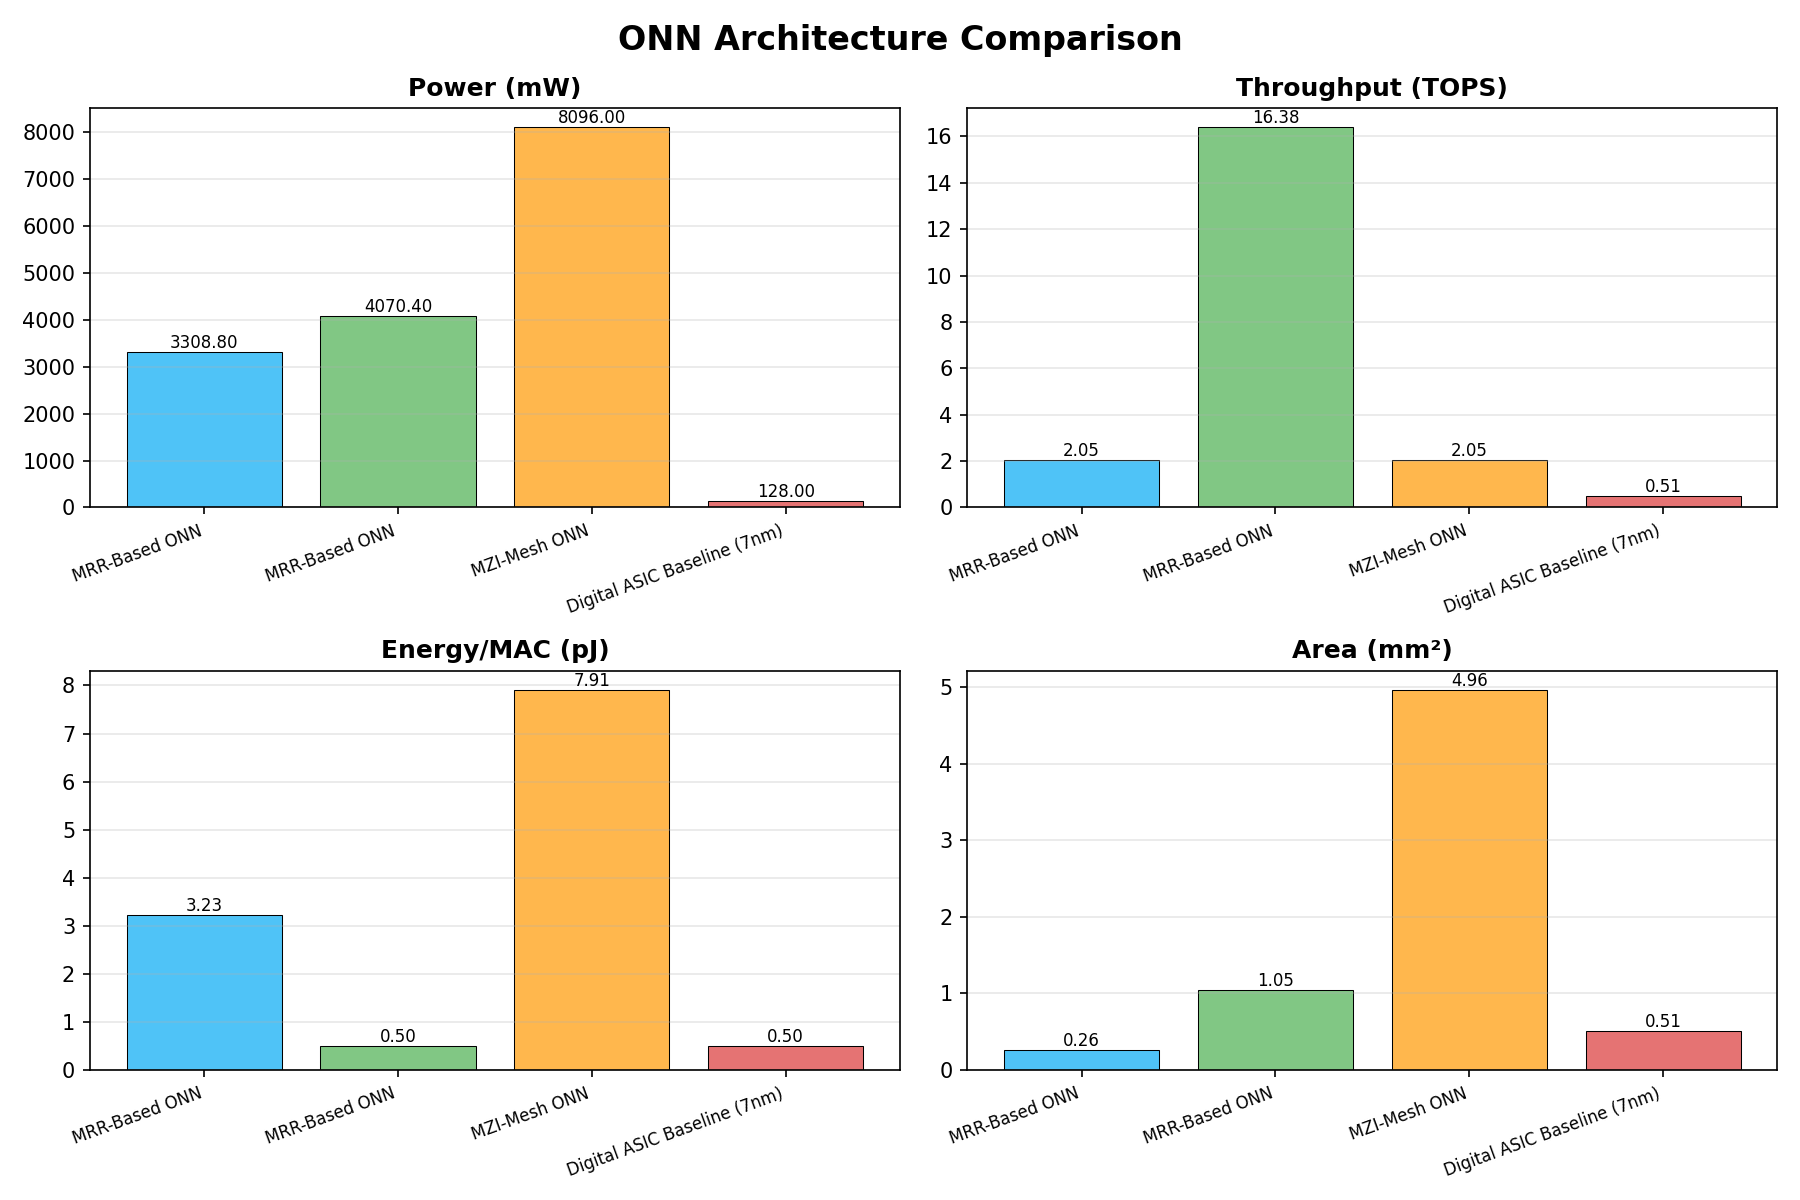
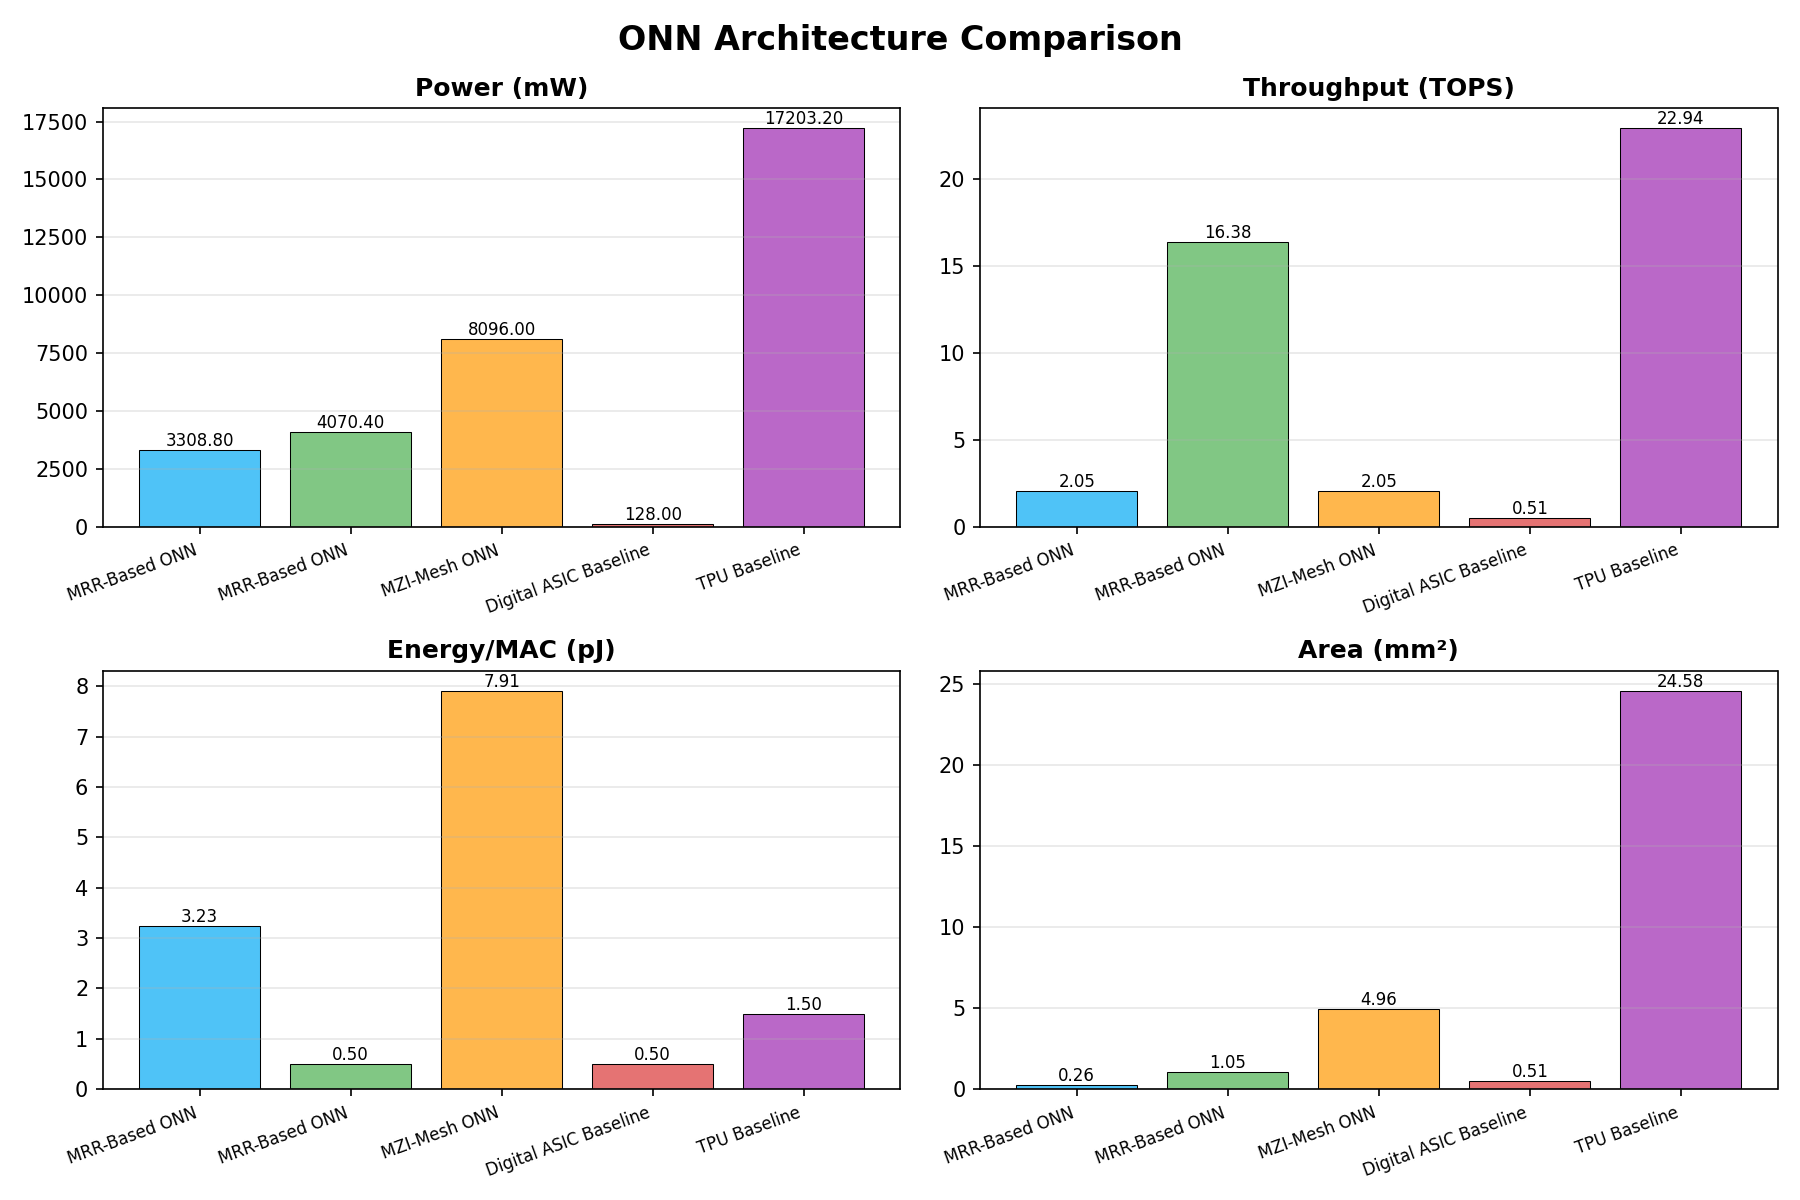
IDK WTF GOIN ON ANTIGRAVITY COOKING

diff --git a/experiments/run_inference.py b/experiments/run_inference.py
@@ -25,10 +25,11 @@ def main():
     # ---- define workloads ------------------------------------------------------
     mlp = SimpleMLP.get_mnist_mlp()
     cnn = SimpleCNN.get_simple_cnn()
+    medmnist_cnn = SimpleCNN.get_medmnist_cnn(in_channels=3, num_classes=10)
 
     # ---- run inference ---------------------------------------------------------
     print("=" * 80)
-    print("END-TO-END NEURAL NETWORK INFERENCE SIMULATION")
+    print("END-TO-END NEURAL NETWORK INFERENCE SIMULATION (incl. MedMNIST)")
     print("=" * 80)
 
     results = []
@@ -38,20 +39,24 @@ def main():
 
         mlp_result = engine.run_mlp(mlp)
         cnn_result = engine.run_cnn(cnn)
-        results.append((name, mlp_result, cnn_result))
+        medmnist_result = engine.run_cnn(medmnist_cnn)
+        results.append((name, mlp_result, cnn_result, medmnist_result))
 
         print(f"\n{'-' * 80}")
+        print(f"Architecture: {name}")
         print(mlp_result)
         print()
         print(cnn_result)
+        print()
+        print(medmnist_result)
 
     # ---- plots ---------------------------------------------------------------
     fig, axes = plt.subplots(2, 2, figsize=(14, 10))
     fig.suptitle("End-to-End Neural Network Inference Analysis", fontsize=15, fontweight="bold")
 
     # Unpack results
-    mrr_name, mrr_mlp, mrr_cnn = results[0]
-    mzi_name, mzi_mlp, mzi_cnn = results[1]
+    mrr_name, mrr_mlp, mrr_cnn, mrr_medmnist = results[0]
+    mzi_name, mzi_mlp, mzi_cnn, mzi_medmnist = results[1]
 
     # --- Plot 1: MLP per-layer energy breakdown (stacked bar) ---
     ax = axes[0, 0]
@@ -99,11 +104,11 @@ def main():
 
     # --- Plot 4: Total comparison ---
     ax = axes[1, 1]
-    categories = ["MLP\nEnergy (nJ)", "MLP\nLatency (us)", "CNN\nEnergy (nJ)", "CNN\nLatency (us)"]
-    mrr_vals = [mrr_mlp.total_energy_nj, mrr_mlp.total_latency_us,
-                mrr_cnn.total_energy_nj, mrr_cnn.total_latency_us]
-    mzi_vals = [mzi_mlp.total_energy_nj, mzi_mlp.total_latency_us,
-                mzi_cnn.total_energy_nj, mzi_cnn.total_latency_us]
+    categories = ["MLP\nEnergy", "CNN\nEnergy", "MedMNIST\nEnergy", "MedMNIST\nLatency (us)"]
+    mrr_vals = [mrr_mlp.total_energy_nj, mrr_cnn.total_energy_nj,
+                mrr_medmnist.total_energy_nj, mrr_medmnist.total_latency_us]
+    mzi_vals = [mzi_mlp.total_energy_nj, mzi_cnn.total_energy_nj,
+                mzi_medmnist.total_energy_nj, mzi_medmnist.total_latency_us]
     x3 = np.arange(len(categories))
     ax.bar(x3 - w / 2, mrr_vals, w, label="MRR", color="#4FC3F7", edgecolor="black", linewidth=0.5)
     ax.bar(x3 + w / 2, mzi_vals, w, label="MZI", color="#FFB74D", edgecolor="black", linewidth=0.5)

diff --git a/workloads/networks.py b/workloads/networks.py
@@ -41,6 +41,20 @@ class SimpleCNN:
             ]
         )
 
+    @classmethod
+    def get_medmnist_cnn(cls, in_channels: int = 3, num_classes: int = 10) -> "SimpleCNN":
+        """A slightly larger CNN for 28x28x3 MedMNIST datasets."""
+        return cls(
+            conv_layers=[
+                Conv2DLayer(in_channels=in_channels, out_channels=32, kernel_size=3, input_spatial_size=28),
+                Conv2DLayer(in_channels=32, out_channels=64, kernel_size=3, input_spatial_size=14),
+            ],
+            linear_layers=[
+                LinearLayer(in_features=64 * 5 * 5, out_features=128),
+                LinearLayer(in_features=128, out_features=num_classes),
+            ]
+        )
+
     def total_macs(self) -> int:
         conv_macs = sum(layer.num_macs() for layer in self.conv_layers)
         linear_macs = sum(layer.num_macs() for layer in self.linear_layers)

diff --git a/experiments/run_architecture_comparison.py b/experiments/run_architecture_comparison.py
@@ -34,13 +34,18 @@ def main():
     mzi_tile = MZITile(num_omacs=4, clock_frequency_ghz=1)
     mzi = MZIMetricsEngine(mzi_tile).evaluate()
 
-    # 4) Electronic baseline
+    # 4) Electronic baseline (ASIC)
     electronic = ElectronicBaselineEngine(
-        num_mac_units=256, clock_frequency_ghz=1.0
+        num_mac_units=256, clock_frequency_ghz=1.0, arch_name="Digital ASIC Baseline"
+    ).evaluate()
+
+    # 5) TPU baseline
+    tpu = ElectronicBaselineEngine(
+        num_mac_units=16384, clock_frequency_ghz=0.7, energy_per_mac_pj=1.5, mac_unit_area_um2=1500.0, arch_name="TPU Baseline"
     ).evaluate()
 
     # ---- print results ---------------------------------------------------------
-    configs = [baseline, advanced, mzi, electronic]
+    configs = [baseline, advanced, mzi, electronic, tpu]
     for c in configs:
         print(c)
         print()
@@ -48,7 +53,7 @@ def main():
     # ---- plot ------------------------------------------------------------------
     names = [c.arch_name for c in configs]
     x = np.arange(len(names))
-    colors = ["#4FC3F7", "#81C784", "#FFB74D", "#E57373"]
+    colors = ["#4FC3F7", "#81C784", "#FFB74D", "#E57373", "#BA68C8"]
 
     fig, axes = plt.subplots(2, 2, figsize=(12, 8))
     fig.suptitle("ONN Architecture Comparison", fontsize=16, fontweight="bold")

diff --git a/accelerator/metrics.py b/accelerator/metrics.py
@@ -157,11 +157,13 @@ class ElectronicBaselineEngine:
         clock_frequency_ghz: float = 1.0,
         energy_per_mac_pj: float = 0.5,
         mac_unit_area_um2: float = 2000.0,
+        arch_name: str = "Digital ASIC Baseline (7nm)",
     ):
         self.num_mac_units = num_mac_units
         self.clock_frequency_ghz = clock_frequency_ghz
         self.energy_per_mac_pj = energy_per_mac_pj
         self.mac_unit_area_um2 = mac_unit_area_um2
+        self.arch_name = arch_name
 
     def evaluate(self) -> PPAMetrics:
         macs_per_second = self.num_mac_units * self.clock_frequency_ghz * 1e9
@@ -173,7 +175,7 @@ class ElectronicBaselineEngine:
         area_mm2 = (self.num_mac_units * self.mac_unit_area_um2) / 1_000_000.0
 
         return PPAMetrics(
-            arch_name="Digital ASIC Baseline (7nm)",
+            arch_name=self.arch_name,
             power_mw=power_mw,
             energy_per_mac_pj=self.energy_per_mac_pj,
             throughput_tops=throughput_tops,